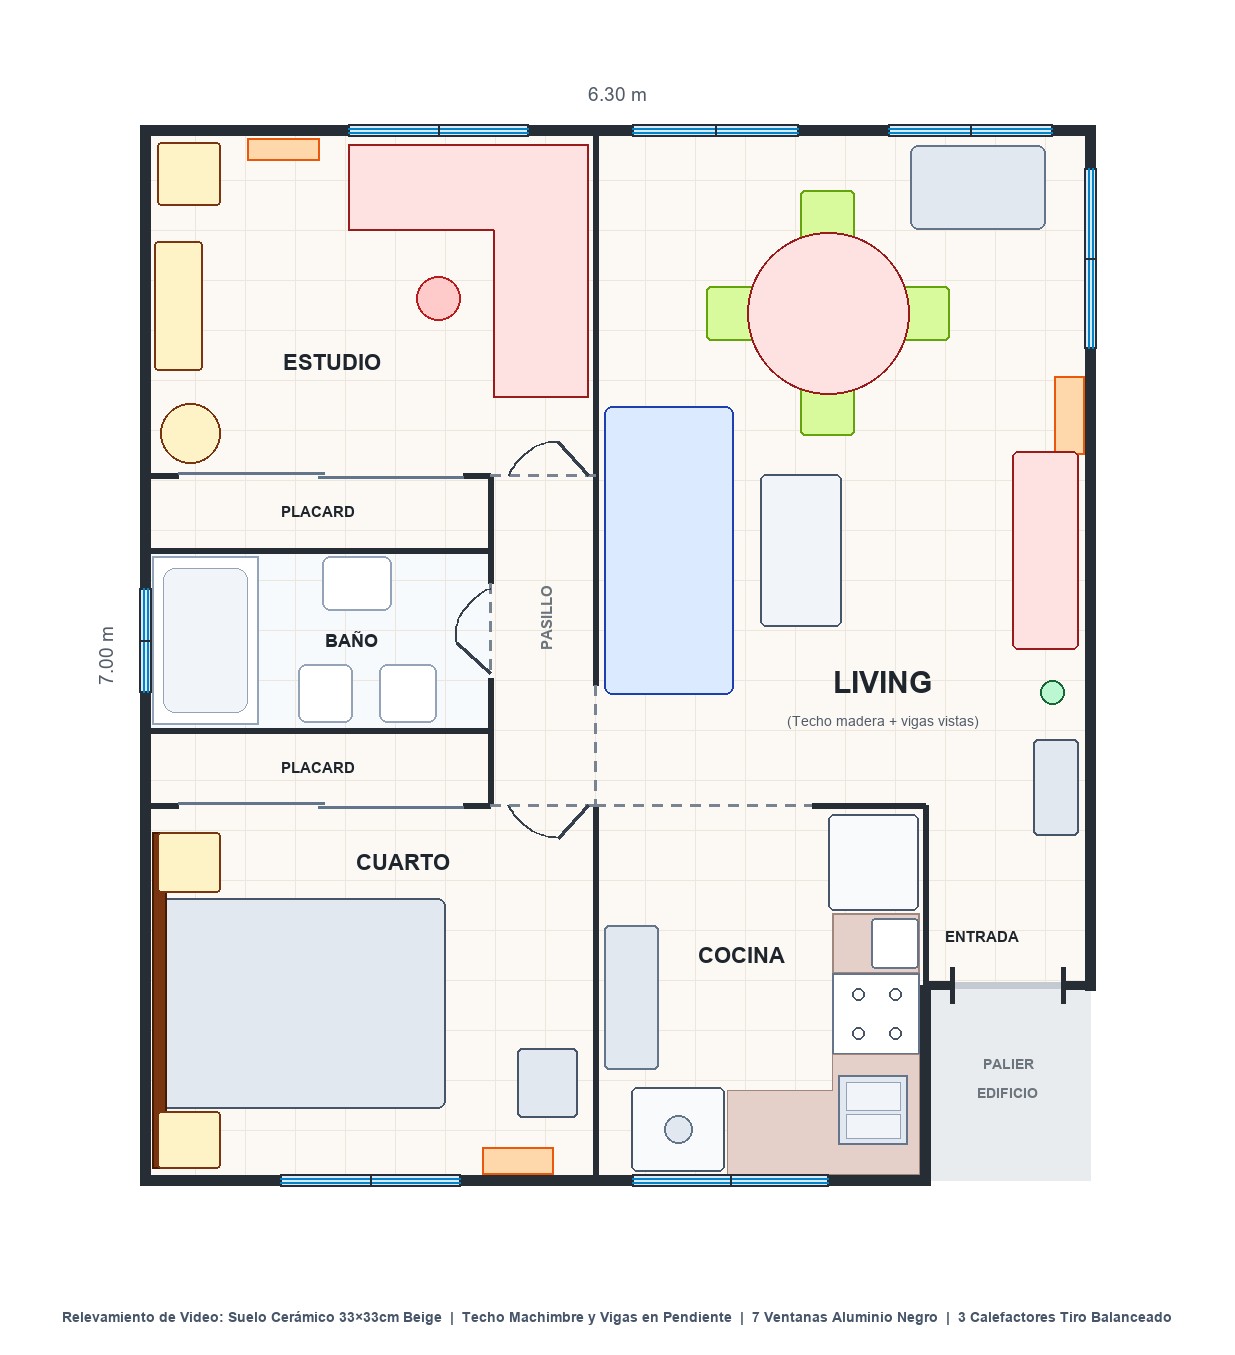
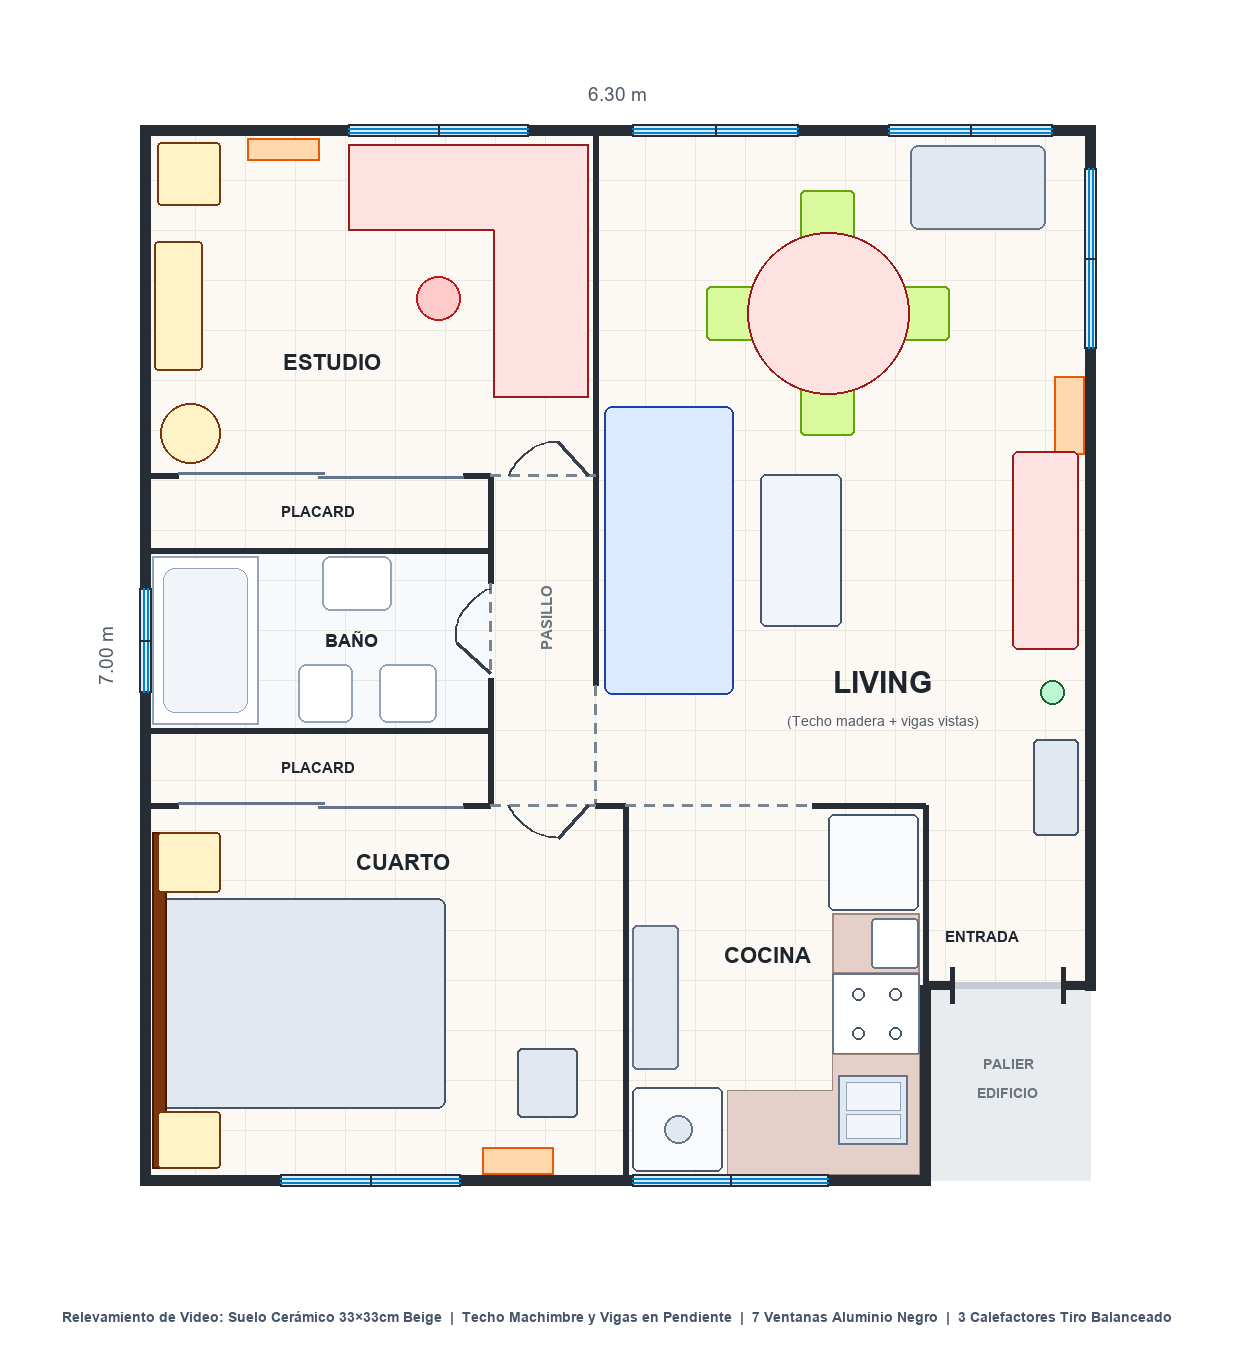
Ajuste de tabique divisorio Cocina-Cuarto a X=3.20m para tocar justo el lavarropas en X=3.25m

Changed region(s): [[0.4615, 0.5889, 0.6462, 0.8679]]

diff --git a/index.html b/index.html
@@ -1489,14 +1489,13 @@
         addWallSegment(4.85, 6.30, 4.85, 8.00, EXT_T, exteriorWallsGroup, true, 3.26);
 
         // Muro Inferior (Sur, Z = 8.00): cierra de [0.00, 8.00] a [4.85, 8.00]
-        // - Sector Cuarto (X = 0.00 a 3.00 m):
+        // - Sector Cuarto (X = 0.00 a 3.20 m):
         addSlopedWallSegment(0.00, 8.00, 0.90, 8.00, 2.48, 2.91, EXT_T, exteriorWallsGroup, true);
         addWindowSegment(0.90, 8.00, 2.10, 8.00, 0.95, 1.10, 2.91, 3.48);
         addSlopedWallSegment(2.10, 8.00, 2.30, 8.00, 3.48, 3.58, EXT_T, exteriorWallsGroup, true);
-        addWallSegment(2.30, 8.00, 3.00, 8.00, EXT_T, exteriorWallsGroup, true, 3.58);
+        addWallSegment(2.30, 8.00, 3.20, 8.00, EXT_T, exteriorWallsGroup, true, 3.58);
 
-        // - Sector Cocina ajustada (X = 3.00 a 4.85 m):
-        addSlopedWallSegment(3.00, 8.00, 3.25, 8.00, 3.58, 3.53, EXT_T, exteriorWallsGroup, true);
+        // - Sector Cocina (X = 3.20 a 4.85 m, pared divisoria toca justo el lavarropas en X = 3.25):
         addWindowSegment(3.25, 8.00, 4.55, 8.00, 1.05, 0.95, 3.53, 3.30);
         addSlopedWallSegment(4.55, 8.00, 4.85, 8.00, 3.30, 3.26, EXT_T, exteriorWallsGroup, true);
 
@@ -1757,8 +1756,8 @@
         addWallSegment(3.00, 0.00, 3.00, 4.05, INT_T, interiorWallsGroup, false, 3.56);
         // - VANO ABIERTO (Paso Living-Pasillo): Sin muro entre Z = 4.05 y Z = 4.80 (0.75 m de paso libre al pasillo)
         addDashedLine(3.00, 4.05, 3.00, 4.80);
-        // - Muro sólido de Z = 4.80 a Z = 8.00 (separa Cuarto de Cocina, remata a 3.56 m bajo el techo)
-        addWallSegment(3.00, 4.80, 3.00, 8.00, INT_T, interiorWallsGroup, false, 3.56);
+        // - Muro sólido divisorio Cuarto-Cocina (trasladado a X = 3.20 para que la pared derecha de Cocina toque justo el lavarropas en X = 3.25):
+        addWallSegment(3.20, 4.80, 3.20, 8.00, INT_T, interiorWallsGroup, false, 3.56);
 
         // Eje Vertical X = 4.85 (separa Cocina de Entrada): de Z = 4.80 a Z = 6.30 a cota 3.26 m
         addWallSegment(4.85, 4.80, 4.85, 6.30, INT_T, interiorWallsGroup, false, 3.26);
@@ -1782,10 +1781,12 @@
         // - PUERTA CUARTO: De X = 2.30 a X = 3.00 (bisagra al Este en X=3.00, abre HACIA ADENTRO del Cuarto)
         addDashedLine(2.30, 4.70, 3.00, 4.70);
         addDoorSymbol2D(2.95, 4.70, 2.75, 4.92, 2.55, 4.92, 2.42, 4.70);
-        // - VANO ABIERTO COCINA (Corregido a ancho reglamentario de 0.85 m; mocheta de 1.00 m cubre la heladera):
-        //   Paso libre de X = 3.00 a X = 3.85; mocheta de X = 3.85 a X = 4.85 (3.44 m a 3.26 m)
-        addDashedLine(3.00, 4.80, 3.85, 4.80);
-        addSlopedWallSegment(3.85, 4.80, 4.85, 4.80, 3.38, 3.20, INT_T, interiorWallsGroup);
+        // Mocheta de unión entre marco puerta Cuarto (X=3.00) y tabique divisorio Cocina (X=3.20):
+        addWallSegment(3.00, 4.70, 3.20, 4.70, INT_T, interiorWallsGroup, false, 3.56);
+        // - VANO ABIERTO COCINA:
+        //   Paso libre de X = 3.20 a X = 3.95 (0.75 m); mocheta de X = 3.95 a X = 4.85 (cubre la heladera)
+        addDashedLine(3.20, 4.80, 3.95, 4.80);
+        addSlopedWallSegment(3.95, 4.80, 4.85, 4.80, 3.36, 3.20, INT_T, interiorWallsGroup);
 
         // ============================================================================
         // 4B. PUERTAS 3D REALES EXTRAÍDAS DEL VIDEO (MARCOS DE CHAPA, HOJAS MADERA,
@@ -2246,12 +2247,12 @@
             buildWoodenRoof();
             // Dintel sobre el Vano Abierto de Cocina (X = 3.00 a 3.85, ancho 0.85 m)
             // Remata a 3.30 m bajo las vigas de madera para evitar perforaciones en la cubierta
-            const wCocinaVano = 0.85;
+            const wCocinaVano = 0.75;
             const lintelTopH = 3.30;
             const lintelH = lintelTopH - DOOR_H;
             const cocinaLintel = new THREE.Mesh(UNIT_BOX_GEO, intWallMat);
             cocinaLintel.scale.set(wCocinaVano, lintelH, INT_T);
-            cocinaLintel.position.set(3.00 + wCocinaVano / 2, DOOR_H + lintelH / 2, 4.80);
+            cocinaLintel.position.set(3.20 + wCocinaVano / 2, DOOR_H + lintelH / 2, 4.80);
             doors3DGroup.add(cocinaLintel);
             attachWallMount(cocinaLintel, 4.35, 4.80, true);
             // Instanciar puertas 3D interactivas con dintel a 3.56 m bajo la viga cumbrera:
@@ -2648,24 +2649,24 @@
             setMountWall(null);
             // - Escurridor de platos negro sobre el retorno Sur de la mesada (mitad izquierda bajo la ventana: X=4.22, Z=7.68)
             addDecorBox(4.22, 0.93, 7.68, 0.38, 0.10, 0.36, 0x1e293b, 0.4, 0, 'Escurridor de Platos Negro');
-            // - Lavarropas automático blanco de carga frontal bajo la mitad derecha de la ventana Sur (lado Oeste: X=3.54, Z=7.67, mirando al Norte) + tapa de madera
-            addDecorBox(3.54, 0.42, 7.67, 0.60, 0.84, 0.58, 0xf8fafc, 0.3, 0, 'Lavarropas Automático');  // Cuerpo lavarropas
-            const drum = addDecorCyl(3.54, 0.44, 7.37, 0.18, 0.18, 0.04, 0x334155, 0.2, 'Puerta Lavarropas'); // Ojo de buey mirando al Norte
+            // - Lavarropas automático blanco de carga frontal bajo la ventana Sur (X=3.25..3.85, Z=7.67, mirando al Norte) que toca justo la pared Oeste en X=3.25
+            addDecorBox(3.55, 0.42, 7.67, 0.60, 0.84, 0.58, 0xf8fafc, 0.3, 0, 'Lavarropas Automático');  // Cuerpo lavarropas
+            const drum = addDecorCyl(3.55, 0.44, 7.37, 0.18, 0.18, 0.04, 0x334155, 0.2, 'Puerta Lavarropas'); // Ojo de buey mirando al Norte
             drum.rotation.x = Math.PI / 2;
-            addDecorBox(3.54, 0.86, 7.67, 0.64, 0.04, 0.60, 0xb47b48, 0.45, 0, 'Tapa Madera Lavarropas'); // Tapa de madera sobre lavarropas
+            addDecorBox(3.55, 0.86, 7.67, 0.60, 0.04, 0.60, 0xb47b48, 0.45, 0, 'Tapa Madera Lavarropas'); // Tapa de madera que apoya exacta contra la pared en X=3.25
             // - Estación de café sobre la tapa de madera del lavarropas (frente a la ventana): Cafetera expreso + Pava eléctrica negra
-            addDecorBox(3.62, 1.04, 7.68, 0.28, 0.32, 0.28, 0x334155, 0.3, 0, 'Cafetera Espresso');  // Cafetera expreso plateada/negra
-            addDecorCyl(3.32, 0.98, 7.68, 0.08, 0.09, 0.20, 0x0f172a, 0.3, 'Pava Eléctrica Negra');  // Pava eléctrica negra
-            // 4. Pared Oeste de la Cocina (X=3.00): 2 Cestos de basura en fila + bolso térmico + escoba azul con pala + portero eléctrico + aplique luz
-            addDecorBox(3.24, 0.26, 7.08, 0.34, 0.52, 0.34, 0xf8fafc, 0.4, 0, 'Cesto Basura Blanco');  // Cesto blanco (más cercano al lavarropas)
-            addDecorBox(3.24, 0.53, 7.08, 0.30, 0.03, 0.30, 0x1e293b, 0.4, 0, 'Tapa Cesto Blanco');  // Tapa vaivén negra del cesto blanco
-            addDecorBox(3.24, 0.28, 6.68, 0.34, 0.56, 0.36, 0x64748b, 0.5, 0, 'Cesto Basura Gris');  // Cesto gris con tapa
-            addDecorBox(3.24, 0.14, 6.32, 0.28, 0.26, 0.26, 0x1e1b4b, 0.7, 0, 'Bolso Térmico');  // Bolso térmico negro/rosa delante del cesto gris
-            addDecorCyl(3.07, 0.65, 6.68, 0.015, 0.015, 1.25, 0x1d4ed8, 0.4, 'Escoba Azul'); // Escoba cabo azul apoyada en pared Oeste
-            addDecorBox(3.08, 0.36, 6.68, 0.08, 0.22, 0.20, 0xf8fafc, 0.4, 0, 'Pala de Basura');  // Pala blanca colgada en la escoba
-            setMountWall(3.00, 6.00, false);
-            addDecorBox(3.06, 1.42, 5.50, 0.05, 0.22, 0.10, 0xfef3c7, 0.4, 0, 'Portero Eléctrico Intercom');  // Teléfono portero eléctrico beige
-            addDecorBox(3.06, 2.15, 5.75, 0.06, 0.16, 0.24, 0xffffff, 0.3, 0, 'Aplique de Pared Cocina');  // Aplique de pared medialuna blanco
+            addDecorBox(3.65, 1.04, 7.68, 0.26, 0.32, 0.26, 0x334155, 0.3, 0, 'Cafetera Espresso');  // Cafetera expreso plateada/negra
+            addDecorCyl(3.38, 0.98, 7.68, 0.08, 0.09, 0.20, 0x0f172a, 0.3, 'Pava Eléctrica Negra');  // Pava eléctrica negra
+            // 4. Pared Oeste de la Cocina (X=3.20): 2 Cestos de basura en fila + bolso térmico + escoba azul con pala + portero eléctrico + aplique luz
+            addDecorBox(3.42, 0.26, 7.08, 0.30, 0.52, 0.30, 0xf8fafc, 0.4, 0, 'Cesto Basura Blanco');  // Cesto blanco (junto a pared X=3.20)
+            addDecorBox(3.42, 0.53, 7.08, 0.28, 0.03, 0.28, 0x1e293b, 0.4, 0, 'Tapa Cesto Blanco');  // Tapa vaivén negra del cesto blanco
+            addDecorBox(3.42, 0.28, 6.68, 0.30, 0.56, 0.32, 0x64748b, 0.5, 0, 'Cesto Basura Gris');  // Cesto gris con tapa
+            addDecorBox(3.42, 0.14, 6.32, 0.26, 0.26, 0.24, 0x1e1b4b, 0.7, 0, 'Bolso Térmico');  // Bolso térmico negro/rosa delante del cesto gris
+            addDecorCyl(3.27, 0.65, 6.68, 0.015, 0.015, 1.25, 0x1d4ed8, 0.4, 'Escoba Azul'); // Escoba cabo azul apoyada en pared Oeste
+            addDecorBox(3.28, 0.36, 6.68, 0.08, 0.22, 0.20, 0xf8fafc, 0.4, 0, 'Pala de Basura');  // Pala blanca colgada en la escoba
+            setMountWall(3.20, 6.00, false);
+            addDecorBox(3.26, 1.42, 5.50, 0.05, 0.22, 0.10, 0xfef3c7, 0.4, 0, 'Portero Eléctrico Intercom');  // Teléfono portero eléctrico beige
+            addDecorBox(3.26, 2.15, 5.75, 0.06, 0.16, 0.24, 0xffffff, 0.3, 0, 'Aplique de Pared Cocina');  // Aplique de pared medialuna blanco
             setMountWall(null);
 
             // ------------------------------------------------------------------------
@@ -3339,7 +3340,7 @@
             { id: 'vid_mesa_red', name: 'Mesa Comedor Redonda + 4 Sillas', room: 'Living', x: 4.55, z: 0.95, y: 0.38, w: 1.00, d: 1.00, h: 0.76, rot: 0, color: 0x882915 },
             { id: 'vid_cucha_ne', name: 'Cucha Perro Esquina NE', room: 'Living', x: 5.55, z: 0.38, y: 0.05, w: 0.92, d: 0.62, h: 0.10, rot: 0, color: 0x94a3b8 },
             { id: 'vid_heladera', name: 'Heladera c/ Freezer + Bodega', room: 'Cocina', x: 4.85, z: 4.88, y: 0.84, w: 0.60, d: 0.62, h: 1.68, rot: 0, color: 0xe2e8f0 },
-            { id: 'vid_lavarropas', name: 'Lavarropas + Estación Café (Bajo Ventana)', room: 'Cocina', x: 3.54, z: 6.67, y: 0.43, w: 0.60, d: 0.58, h: 0.86, rot: 0, color: 0xcbd5e1 },
+            { id: 'vid_lavarropas', name: 'Lavarropas + Estación Café (Bajo Ventana)', room: 'Cocina', x: 3.55, z: 6.67, y: 0.43, w: 0.60, d: 0.58, h: 0.86, rot: 0, color: 0xcbd5e1 },
             { id: 'vid_cama_2p', name: 'Cama 2 Plazas + Respaldo Nogal', room: 'Cuarto', x: 1.05, z: 5.80, y: 0.24, w: 1.90, d: 1.45, h: 0.48, rot: 0, color: 0x475569 },
             { id: 'vid_luz_n', name: 'Mesa de Luz Norte', room: 'Cuarto', x: 0.28, z: 4.84, y: 0.31, w: 0.42, d: 0.44, h: 0.62, rot: 0, color: 0x4a3222 },
             { id: 'vid_luz_s', name: 'Mesa de Luz Sur', room: 'Cuarto', x: 0.28, z: 6.72, y: 0.31, w: 0.42, d: 0.42, h: 0.62, rot: 0, color: 0x4a3222 },

diff --git a/generate_2d_plan.py b/generate_2d_plan.py
@@ -234,10 +234,10 @@ def main():
 
     # B) COCINA: Heladera con Freezer + Bodega al Noreste (X=4.55..5.15, Y=4.56..5.20), Lavarropas + Estación Café bajo ventana Sur (lado Oeste: X=3.24..3.86, Y=6.38..6.94) y Cestos + Portero sobre pared Oeste (X=3.06..3.42, Y=5.30..6.26)
     draw.rounded_rectangle([*px(4.55, 4.56), *px(5.15, 5.20)], radius=6, fill=(248, 250, 252), outline=(71, 85, 105), width=2)
-    draw.rounded_rectangle([*px(3.24, 6.38), *px(3.86, 6.94)], radius=6, fill=(248, 250, 252), outline=(71, 85, 105), width=2)
+    draw.rounded_rectangle([*px(3.25, 6.38), *px(3.85, 6.94)], radius=6, fill=(248, 250, 252), outline=(71, 85, 105), width=2)
     cx_w, cy_w = px(3.55, 6.66)
     draw.ellipse([cx_w - 14, cy_w - 14, cx_w + 14, cy_w + 14], fill=(226, 232, 240), outline=(100, 116, 139), width=2)
-    draw.rounded_rectangle([*px(3.06, 5.30), *px(3.42, 6.26)], radius=5, fill=(226, 232, 240), outline=(100, 116, 139), width=2)
+    draw.rounded_rectangle([*px(3.25, 5.30), *px(3.55, 6.26)], radius=5, fill=(226, 232, 240), outline=(100, 116, 139), width=2)
 
     # C) CUARTO AMPLIADO: Cama 2 Plazas (X=0.10..2.00, Y=5.12..6.52) + Respaldo Ancho Nogal y 2 Mesas de Luz sobre pared Oeste (X=0.00) + Cesto Ropa al Este
     draw.rounded_rectangle([*px(0.10, 5.12), *px(2.00, 6.52)], radius=8, fill=(226, 232, 240), outline=(71, 85, 105), width=2)
@@ -311,7 +311,8 @@ def main():
     # Eje Vertical Central X = 3.00:
     draw.line([px(3.00, 0.00), px(3.00, 3.70)], fill=WALL_COLOR, width=INT_W)
     draw_dashed_line(draw, *px(3.00, 3.70), *px(3.00, 4.50), fill=DASH_COLOR, width=3)
-    draw.line([px(3.00, 4.50), px(3.00, 7.00)], fill=WALL_COLOR, width=INT_W)
+    draw.line([px(3.00, 4.50), px(3.20, 4.50)], fill=WALL_COLOR, width=INT_W)
+    draw.line([px(3.20, 4.50), px(3.20, 7.00)], fill=WALL_COLOR, width=INT_W)
 
     # Eje Vertical X = 5.20 (separa Cocina de Entrada): de Y = 4.50 a Y = 5.70
     draw.line([px(5.20, 4.50), px(5.20, 5.70)], fill=WALL_COLOR, width=INT_W)
@@ -344,7 +345,7 @@ def main():
     draw_dashed_line(draw, *px(2.30, 4.50), *px(3.00, 4.50), fill=DASH_COLOR, width=3)
     draw_door_symbol(draw, px, (2.95, 4.50), (2.75, 4.72), (2.55, 4.72), (2.42, 4.50), DOOR_COLOR, width=3)
     # - Cocina SIN PUERTA (vano abierto libre de X = 3.00 a X = 4.45; mocheta de X = 4.45 a X = 5.20 delante de la heladera)
-    draw_dashed_line(draw, *px(3.00, 4.50), *px(4.45, 4.50), fill=DASH_COLOR, width=3)
+    draw_dashed_line(draw, *px(3.20, 4.50), *px(4.45, 4.50), fill=DASH_COLOR, width=3)
     draw.line([px(4.45, 4.50), px(5.20, 4.50)], fill=WALL_COLOR, width=INT_W)
 
     # -------------------------------------------------------------------------
@@ -365,7 +366,7 @@ def main():
     draw.text(px(1.72, 4.88), "CUARTO", fill=TEXT_COLOR, font=f_room, anchor="mm")
     draw.text(px(4.92, 3.68), "LIVING", fill=TEXT_COLOR, font=f_living, anchor="mm")
     draw.text(px(4.92, 3.94), "(Techo madera + vigas vistas)", fill=SUB_COLOR, font=f_sub, anchor="mm")
-    draw.text(px(3.98, 5.50), "COCINA", fill=TEXT_COLOR, font=f_room, anchor="mm")
+    draw.text(px(4.15, 5.50), "COCINA", fill=TEXT_COLOR, font=f_room, anchor="mm")
     draw.text(px(5.58, 5.38), "ENTRADA", fill=TEXT_COLOR, font=f_sm, anchor="mm")
     draw.text(px(5.75, 6.23), "PALIER", fill=PALIER_TEXT, font=f_palier, anchor="mm")
     draw.text(px(5.75, 6.42), "EDIFICIO", fill=PALIER_TEXT, font=f_palier, anchor="mm")

diff --git a/generate_model.py b/generate_model.py
@@ -184,7 +184,8 @@ def build_apartment():
     b.add_box(2.30 - INT / 2, 0.00, 3.65, 2.30 + INT / 2, H, 4.50)
 
     b.add_box(3.00 - INT / 2, 0.00, 0.00, 3.00 + INT / 2, H, 3.70)
-    b.add_box(3.00 - INT / 2, 0.00, 4.50, 3.00 + INT / 2, H, 7.00)
+    b.add_box(3.00 - INT / 2, 0.00, 4.50 - INT / 2, 3.20 + INT / 2, H, 4.50 + INT / 2)
+    b.add_box(3.20 - INT / 2, 0.00, 4.50, 3.20 + INT / 2, H, 7.00)
 
     b.add_box(5.20 - INT / 2, 0.00, 4.50, 5.20 + INT / 2, H, 5.70)
 
@@ -196,7 +197,7 @@ def build_apartment():
 
     b.add_box(0.00, 0.00, 4.50 - INT / 2, 2.30, H, 4.50 + INT / 2)
     b.add_box(2.30, 2.05, 4.50 - INT / 2, 3.00, H, 4.50 + INT / 2)
-    b.add_box(3.00, 2.05, 4.50 - INT / 2, 4.45, H, 4.50 + INT / 2)  # Dintel sobre vano abierto Cocina
+    b.add_box(3.20, 2.05, 4.50 - INT / 2, 4.45, H, 4.50 + INT / 2)  # Dintel sobre vano abierto Cocina
     b.add_box(4.45, 0.00, 4.50 - INT / 2, 5.20, H, 4.50 + INT / 2)  # Mocheta delante de la heladera
 
     # 3B. PUERTAS 3D Y PLACARDS EXTRAÍDOS DEL VIDEO
